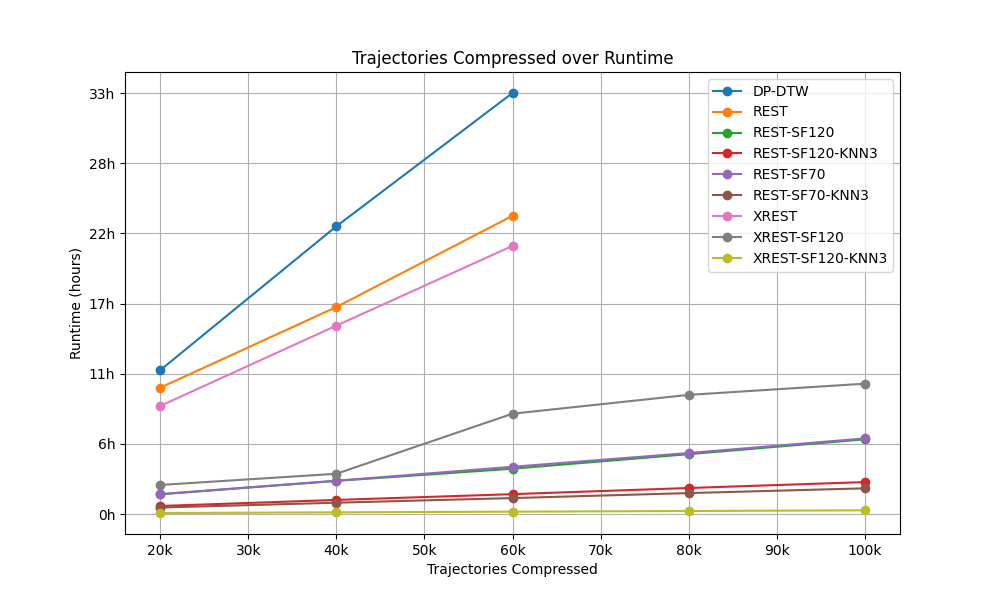
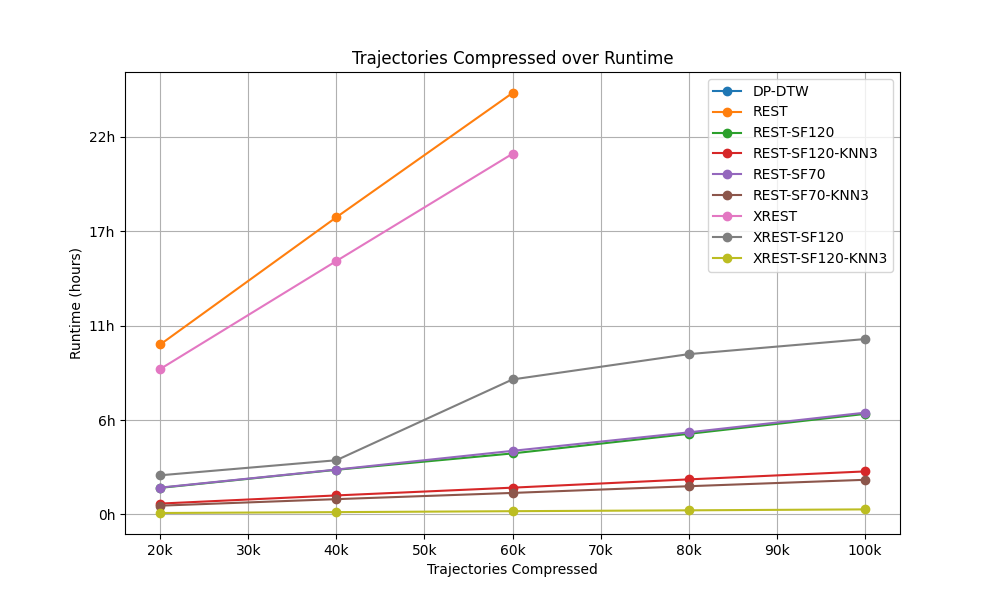
setup sample size tests

diff --git a/algo/src/main.rs b/algo/src/main.rs
@@ -23,7 +23,7 @@ fn main() -> Result<(), csv::Error> {
         k: 3,
         error_point: 70,
     };
-    let foo = vec![300, 400, 500, 600, 700, 800, 900, 1000];
+    let foo = vec![500, 600, 700, 800, 900, 1000];
     for f in &foo[1..] {
         rest_mode.rs = *f;
         run_config(Config {
